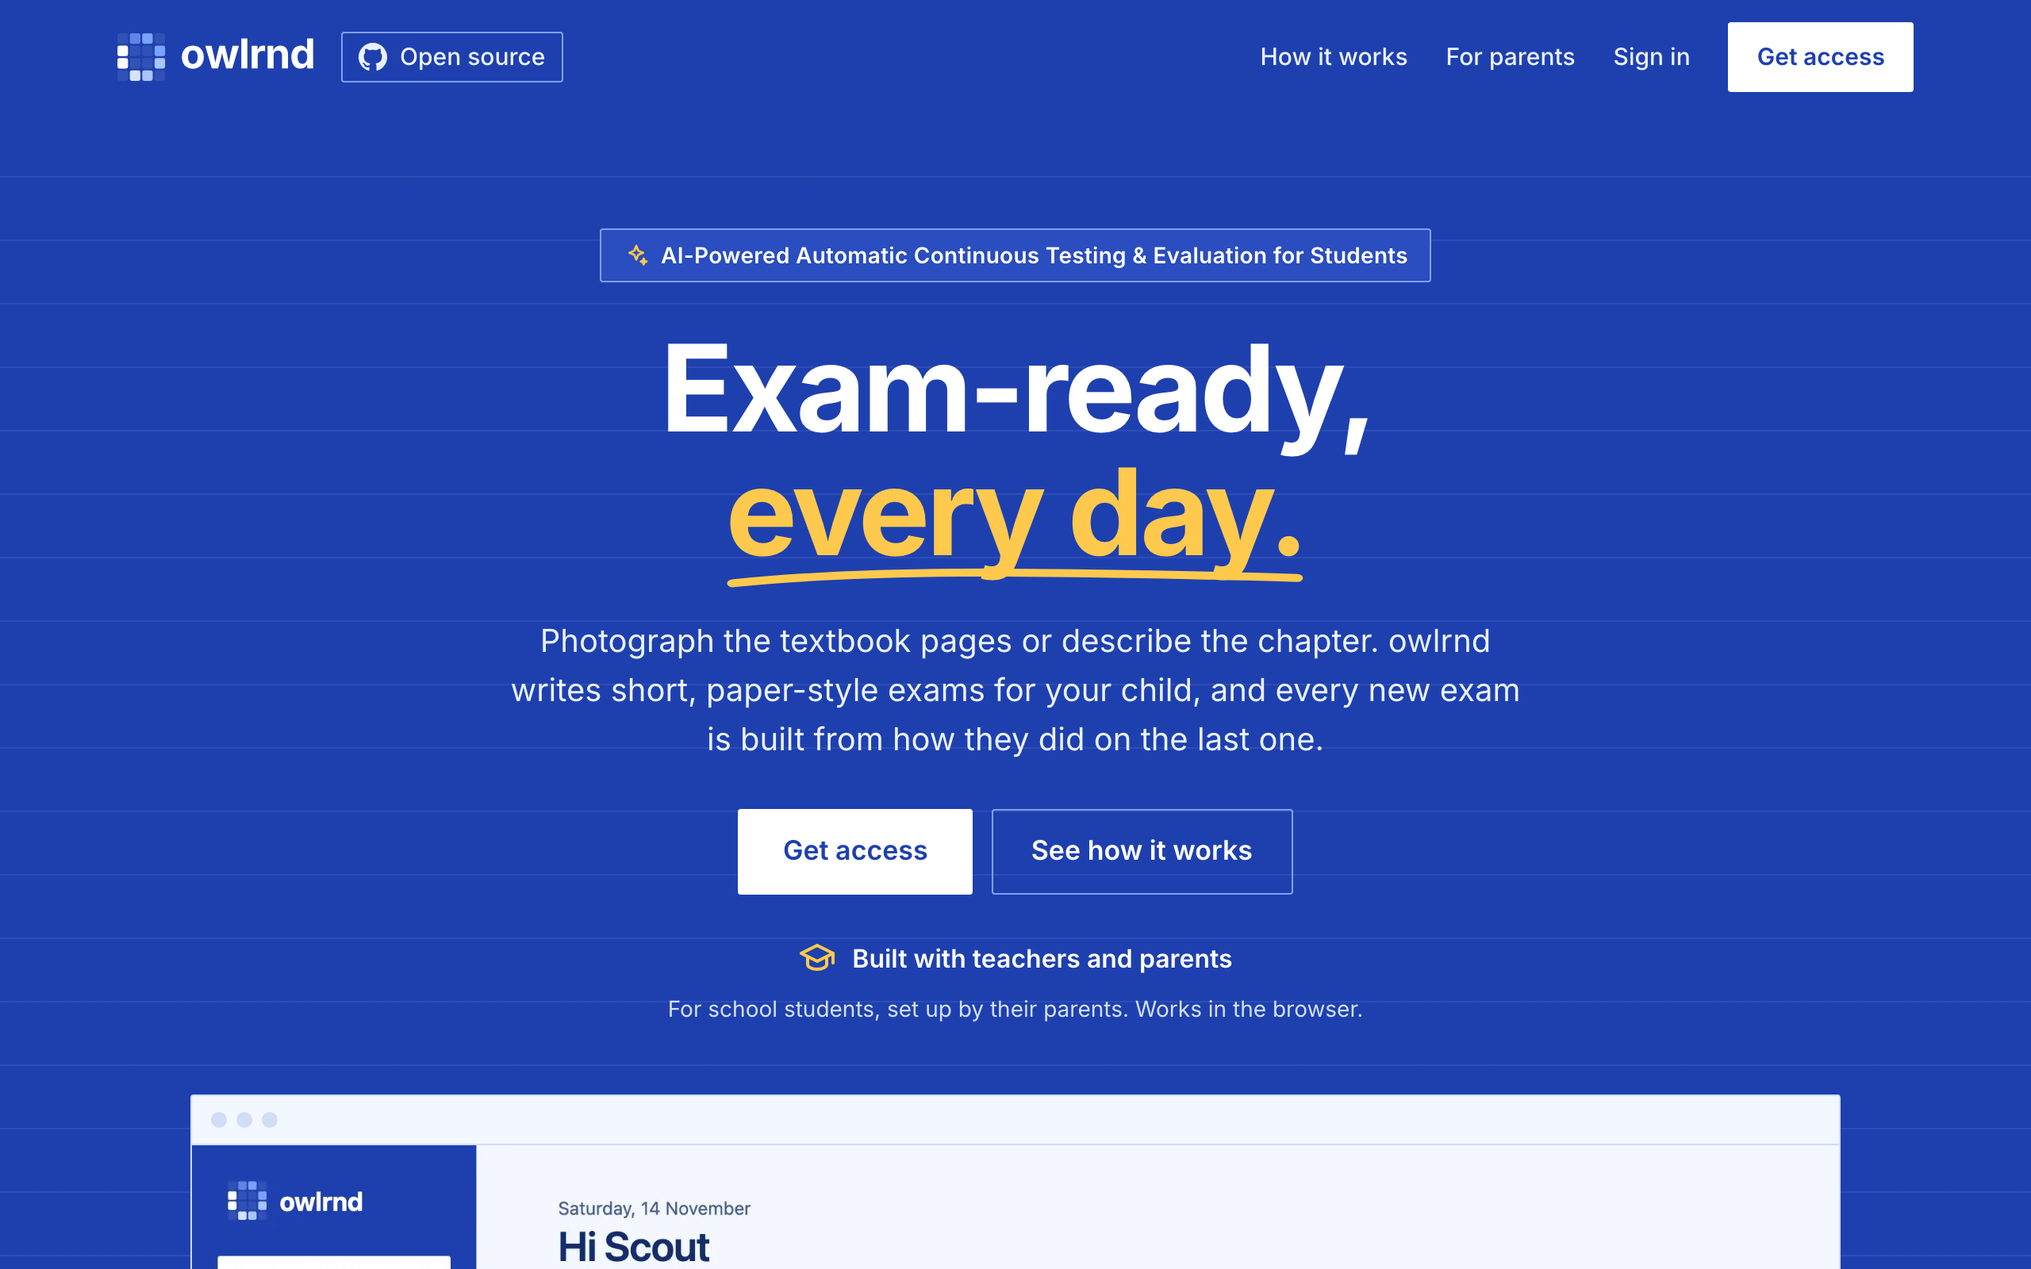
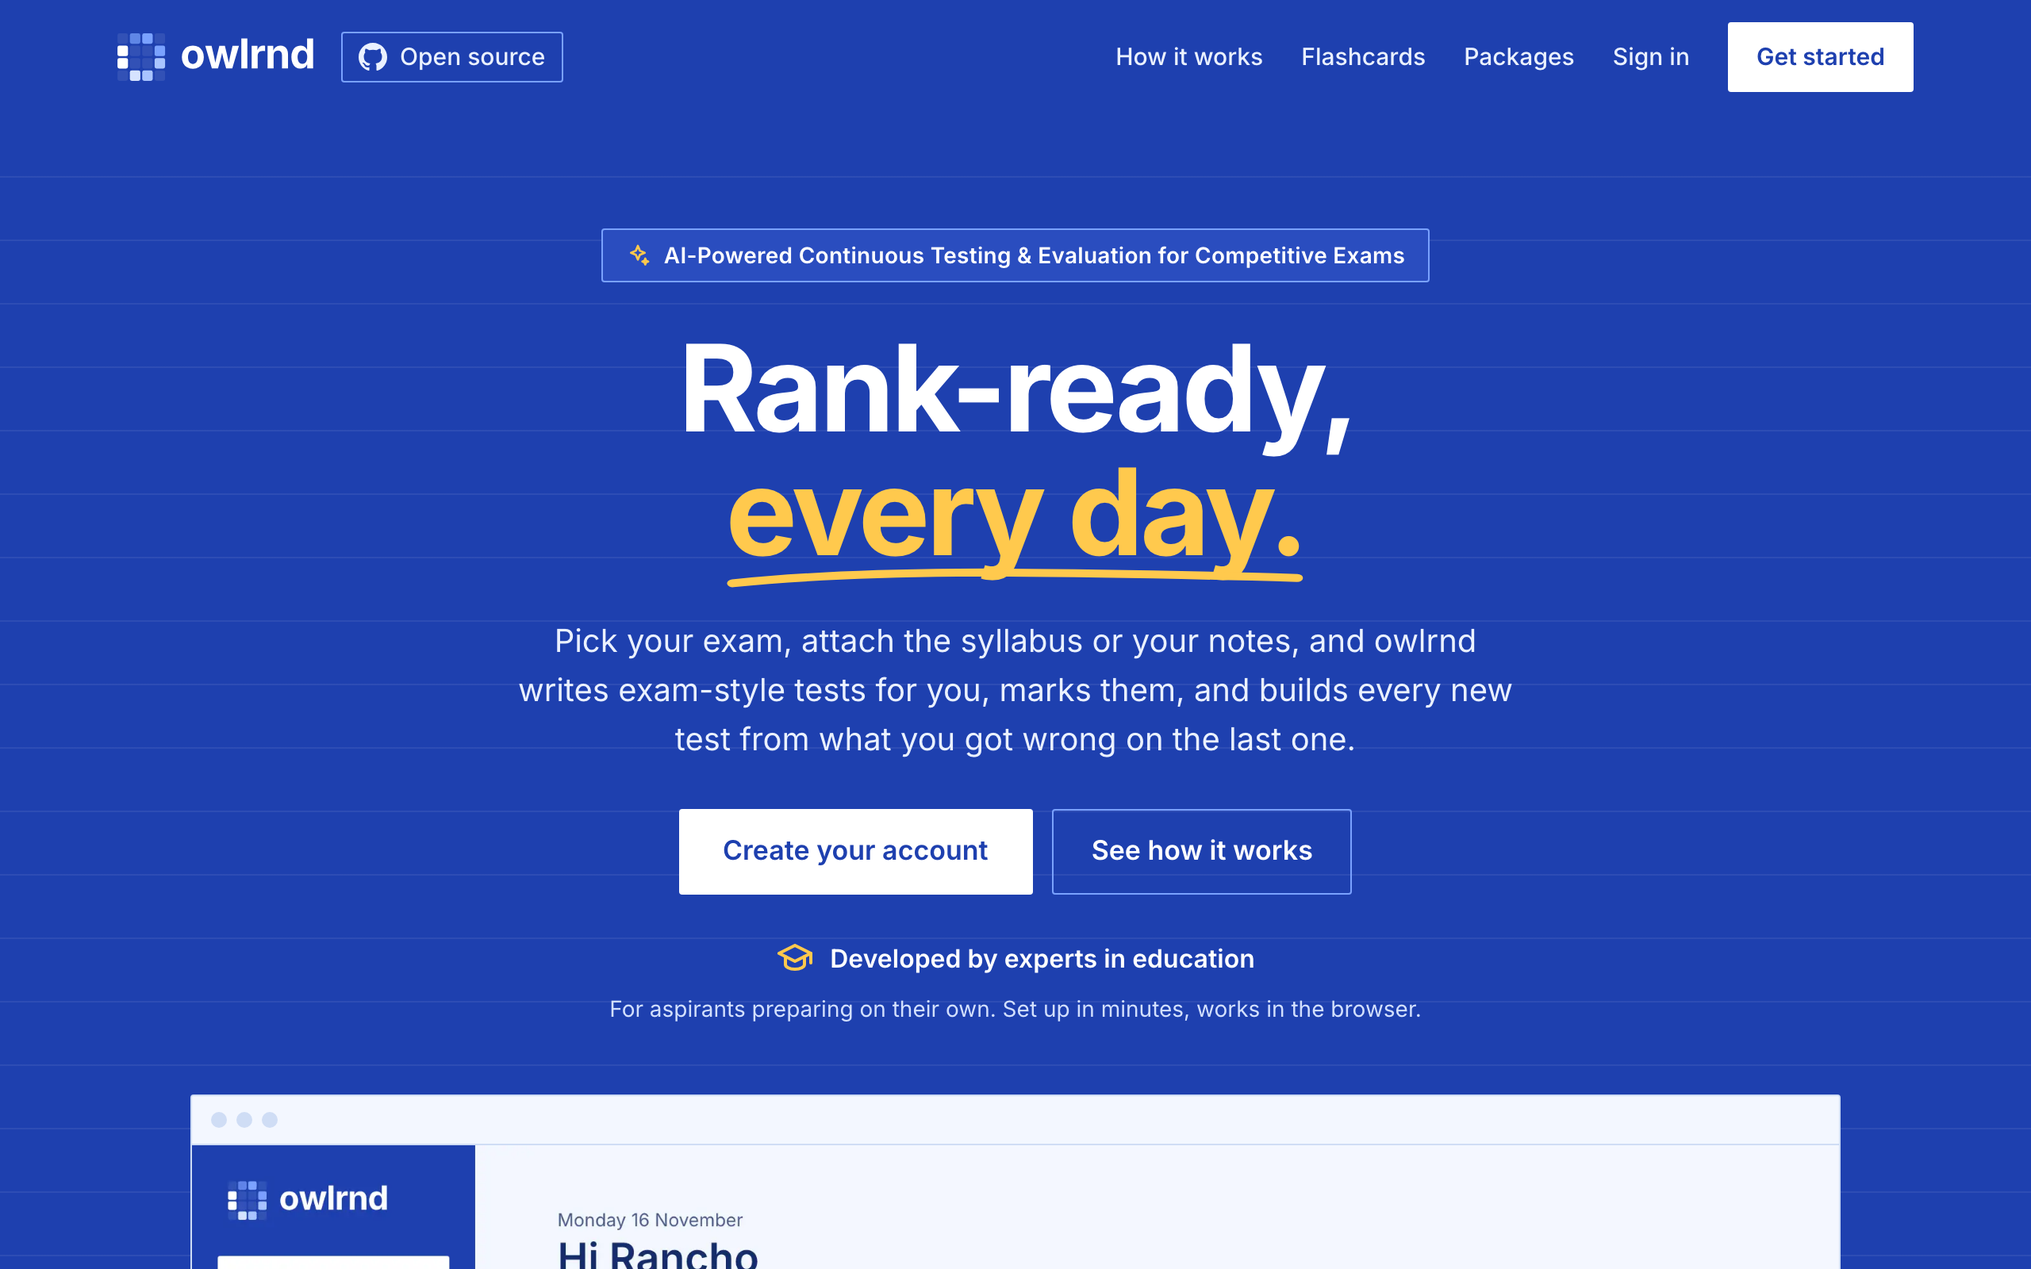
Website and README for 0.3 Flashcards
Landing page: a Flashcards section ("Learn it between tests") with an HD
screenshot of a card, a Flashcards link in the header, and a new HD
dashboard screenshot with track colours and Practise buttons. README:
intro for both kinds of learner, the new screenshots, what each version
added, and a Flashcards section (job, routes, rules). Roadmap items 6 and
19 marked built.

diff --git a/src/components/landing/Landing.tsx b/src/components/landing/Landing.tsx
@@ -6,6 +6,7 @@ import { site } from "@/config/site";
 import { CapIcon, GitHubIcon, SparkleIcon, StarIcon, Swash } from "./icons";
 import chatImg from "./img/chat.png";
 import dashImg from "./img/dash.png";
+import flashcardsImg from "./img/flashcards.png";
 import paperImg from "./img/paper.png";
 import parentImg from "./img/parent.png";
 import { SiteFooter, SiteHeader } from "./SiteChrome";
@@ -19,7 +20,8 @@ import { SiteFooter, SiteHeader } from "./SiteChrome";
 
 // Imported, so each file gets a content-hashed URL (a swapped screenshot shows up at once) and its own size.
 const SHOTS = {
-  dash: { src: dashImg, alt: "A learner's owlrnd dashboard with three suggested JEE practice tests" },
+  dash: { src: dashImg, alt: "A learner's owlrnd dashboard with three suggested JEE practice tests, each with a Practise flashcards button" },
+  flashcards: { src: flashcardsImg, alt: "An owlrnd flashcard showing a question on Ohm's law, its answer and a one-line explanation, with Not yet and Got it buttons" },
   chat: { src: chatImg, alt: "A learner creating a JEE Physics track by chatting with the owlrnd AI" },
   paper: { src: paperImg, alt: "An owlrnd exam paper with numbered multiple-choice questions" },
   parent: { src: parentImg, alt: "The parent's view of two children's practice activity" },
@@ -28,7 +30,7 @@ const SHOTS = {
 const STEPS = [
   ["Choose your exam", "Start from a ready-made package for your exam, or chat with the AI and attach the syllabus, your coaching notes or a past paper."],
   ["Set a track and a goal", "The AI lists the topics and suggests a goal, such as 9 out of 10 in three tests in a row. Change anything before you start."],
-  ["Practise every day", "Short papers of up to 10 questions. Each new test gives more weight to what you got wrong and brings back what you know, so it sticks."],
+  ["Practise every day", "Short papers of up to 10 questions, and flashcards in between. Each new test gives more weight to what you got wrong and brings back what you know, so it sticks."],
 ];
 
 const EXAM_POINTS = [
@@ -38,6 +40,13 @@ const EXAM_POINTS = [
 ];
 
 /** No package is live in 0.2 (owner, 2026-11-15): every card shows "Coming soon" (hand-off, open items). */
+/** 0.3 Flashcards (docs/plan-0.3-flashcards.md). */
+const FLASHCARD_POINTS = [
+  ["Written from your material", "Short cards on your syllabus and notes: definitions, formulas, units and quick one-step problems."],
+  ["Your mistakes come back", "Questions you got wrong in a test return as flashcards, asked a new way, until they stick."],
+  ["Spaced, so you remember", "Cards you know come back less often; the ones you are still learning come back the next day."],
+];
+
 const PACKAGES = [
   ["JEE Main", "Physics, Chemistry, Mathematics"],
   ["NEET UG", "Physics, Chemistry, Biology"],
@@ -58,7 +67,7 @@ const PACKAGE_POINTS = [
 const PARENT_POINTS = [
   ["You set up the tracks", "Photograph the textbook pages or describe the chapter. The AI builds the tracks and goals with you."],
   ["Every sign-in comes to you", "Each time your child signs in, a 6-digit code is sent to your email."],
-  ["See effort and weak spots", "One page for all your children: last exam, what needs work, and how often they practise."],
+  ["See effort and weak spots", "One page for all your children: last exam, what needs work, and how often they practise, with tests and flashcards."],
 ];
 
 /** Star badge shades, lightest to darkest, one per level. */
@@ -80,6 +89,7 @@ export function Landing() {
         <Hero />
         <HowItWorks />
         <TheExam />
+        <Flashcards />
         <Goals />
         <Packages />
         <Motivation />
@@ -232,10 +242,25 @@ function TheExam() {
   );
 }
 
+function Flashcards() {
+  return (
+    <section id="flashcards" className="scroll-mt-4 px-6 py-20">
+      <div className="mx-auto flex max-w-[1180px] flex-col gap-9">
+        <SectionIntro eyebrow="Flashcards" title="Learn it between tests.">
+          A few minutes at a time: read the question, think, show the answer, and say Got it or Not yet. No marks and no
+          effect on your goal, just practice that makes the next test easier.
+        </SectionIntro>
+        <Shot shot={SHOTS.flashcards} />
+        <Points items={FLASHCARD_POINTS} />
+      </div>
+    </section>
+  );
+}
+
 function Goals() {
   const max = Math.max(...GOAL_SCORES);
   return (
-    <section className="px-6 py-20">
+    <section className="border-y border-line bg-white px-6 py-20">
       <div className="mx-auto flex max-w-[1180px] flex-wrap items-center gap-x-16 gap-y-10">
         <div className="flex min-w-0 flex-[1_1_400px] flex-col gap-4">
           <Eyebrow>Goals</Eyebrow>

diff --git a/src/components/landing/SiteChrome.tsx b/src/components/landing/SiteChrome.tsx
@@ -28,6 +28,9 @@ export function SiteHeader({ home = false }: { home?: boolean }) {
           <Link href={`${base}#how`} className={navLink}>
             How it works
           </Link>
+          <Link href={`${base}#flashcards`} className={navLink}>
+            Flashcards
+          </Link>
           <Link href={`${base}#packages`} className={navLink}>
             Packages
           </Link>

diff --git a/docs/09-roadmap.md b/docs/09-roadmap.md
@@ -24,7 +24,7 @@ Small gaps found while building 0.1 (added 2026-11-14). Pick these up first afte
 3. **Ready-made packages.** Board and class packages (CBSE, ICSE) and add-on packs (general knowledge, coaching, AI) that load tracks automatically. Shown as Coming soon in 0.1 (2c).
 4. **Create a track from Claude.** A connector so a parent talking to Claude about their child's studies can ask Claude to create an owlrnd track from that conversation. The parent confirms in owlrnd before it goes live. *Plan for it:* keep track creation as one internal operation that both the chat and an external caller can use.
 5. **Several tracks at once.** From one chat or one connector request, propose one track per chapter or test from a term's syllabus or test timetable; the parent confirms them together.
-6. **Flashcards.** Missed questions and weak topics as flashcards between exams, grouped by track.
+6. **Flashcards.** *Built in 0.3 "Flashcards" (2026-11-16); see item 19 and `plan-0.3-flashcards.md`.* Missed questions and weak topics as flashcards between exams, grouped by track.
 7. **Progress views.** A student progress page and a fuller parent profile with scores over time.
 8. **owlrnd for college students.** *Now part of 0.2 as self-managed learners; see `11-editions.md` and `plan-0.2.md`.*
 9. **A shared, self-improving question bank.** *(Added 2026-11-15, owner.)* Today every question is written for one track and used only there. Instead, keep every good question in one shared bank and reuse it for any student studying the same thing, writing new questions with the AI only when the bank has nothing suitable. This cuts the AI cost per exam (writing papers is most of the bill), makes papers appear instantly, and lets question quality improve with use. **Limit (terms of use, owner 2026-11-16):** exams and flashcards created from material a user uploaded are used only in the account it was uploaded to and are never shown to other users or reused (textbook copyright). So the shared bank may only hold questions not written from uploaded material, unless the terms change and users agree first.
@@ -44,6 +44,6 @@ Small gaps found while building 0.1 (added 2026-11-14). Pick these up first afte
 16. **Exam rules settings.** *(Added 2026-11-15, owner.)* A settings option that controls how a track's exams work. Each ready-made package (item 3) carries its own predefined settings (for example JEE Main: +4 / −1 negative marking, multiple choice and numerical answers), and a learner or parent sets their own for a Build your own track. Settings cover rules such as negative marking, question types, exam size and time, and the goal. *Plan for it:* keep marking and scoring rules in one place that reads per-track settings, with today's 0.1 rules as the defaults.
 17. **Analyse an outside exam paper.** *(Added 2026-11-15, owner.)* A learner or parent uploads a marked exam paper from school, coaching or a mock test (photos or a PDF of the paper with marks, or a marks sheet or teacher's comments) and asks owlrnd to analyse it. The AI reads the questions, the marks and any answers it can see, and maps each question to the track's topics, then compares the result with the learner's owlrnd history on the matching tracks to explain where and why marks were lost. For example: a topic the track never covered, a topic practised but only with easier or different question types, a skill the exams didn't test (multi-step working, long answers, numericals), or a topic the learner was strong on in owlrnd but still lost marks on (a sign the practice wasn't close enough to the real paper). It then proposes changes for the controlling account to confirm: topics to add or re-weight, question types and difficulty to add, and a focus for the next exams. Nothing changes until they confirm (rules §3: adding topics restarts a track that reached its goal). *Plan for it:* reuse the track chat's upload handling (photos, HEIC, PDFs); keep topic names consistent so outside questions can be matched to them; and store answers per question with topic, type and skill (as in item 12) so the comparison has history to work from. Related: upload written answers (item 1) and exam-readiness reporting (item 12). The AI limits still apply (AI §6): it works only from the uploaded paper and the track's topics and material, and the learner's own paper is private to their account.
 18. **Hand a child's account over, or let a child manage their own tracks.** *(Parked from 0.2 by the owner, 2026-11-16; editions §2.5.)* A parent-managed child who grows up (for example 14 and preparing for JEE, or turning 18) keeps their history, tracks and points but takes control: their own email for codes, their own tracks, and the parent's view ends unless the child keeps it on. In 0.2 a parent-created account is always the parent's: codes go to the parent and the parent sets up the tracks. *Plan for it:* learners already have a type and a parent link (M7), so the change is mostly a flow (the child adds and verifies an email) and flipping the type; consent rules (M10) apply to under-18s.
-19. **Flashcards: "Practise" next to Start.** *(Added 2026-11-16, owner; planned as **0.3 "Flashcards"**, see `plan-0.3-flashcards.md` and previews `screens/fc-*`.)* A second button under **Start** on each suggestion and track card, opening a quick flashcard session for that track: no paper, no marks, no effect on the goal. *Idea:* the AI writes cards (term or question on the front, answer and the one-line explanation on the back) from the track's topics and material, weighted the same way as exams (weak and untested topics first; missed exam questions come back as cards). The learner flips and says "Got it" or "Not yet"; "Not yet" cards return sooner (simple spaced repetition). Points could reward finishing a session lightly, without counting towards the goal. *Plan for it:* cards belong to the track like questions (and, per the terms, stay in the account whose material they came from); reuse the exam writer's topic plan and the AI limits; count card generation against the AI allowance. Until it's built, the button isn't shown, so learners don't meet a dead end.
+19. **Flashcards: "Practise" next to Start.** *(Added 2026-11-16, owner; **built in 0.3 "Flashcards"** (F1–F4, 2026-11-16), see `plan-0.3-flashcards.md` and previews `screens/fc-*`.)* A second button under **Start** on each suggestion and track card, opening a quick flashcard session for that track: no paper, no marks, no effect on the goal. *Idea:* the AI writes cards (term or question on the front, answer and the one-line explanation on the back) from the track's topics and material, weighted the same way as exams (weak and untested topics first; missed exam questions come back as cards). The learner flips and says "Got it" or "Not yet"; "Not yet" cards return sooner (simple spaced repetition). Points could reward finishing a session lightly, without counting towards the goal. *Plan for it:* cards belong to the track like questions (and, per the terms, stay in the account whose material they came from); reuse the exam writer's topic plan and the AI limits; count card generation against the AI allowance. Until it's built, the button isn't shown, so learners don't meet a dead end.
 20. **A separate tracker for flashcards.** *(Added 2026-11-16, owner.)* Flashcard practice gets its own progress view and streak, separate from exam streaks and points (0.3 keeps flashcards out of exam streaks). *Plan for it:* 0.3 already stores every session and review (`flashcard_sessions`, `flashcard_reviews`), so the tracker can be built from that history.
 

diff --git a/README.md b/README.md
@@ -1,22 +1,22 @@
 # owlrnd
 
-Short, paper-style practice exams that adapt between exams. A parent sets up practice tracks for each child; the child practises.
+Short, paper-style practice exams that adapt between exams, with flashcards in between. Learners preparing for an exam set up their own practice tracks; parents can set them up for school-age children, who just practise.
 
 - **Brief and rules:** [`CLAUDE.md`](CLAUDE.md), [`docs/`](docs/) (`05-rules.md` is the source of truth), [`screens/`](screens/), [`mockups/`](mockups/)
 - **Build plan and progress:** [`PLAN.md`](PLAN.md)
 
 ## Screenshots
 
-![The owlrnd landing page: "Exam-ready, every day."](docs/images/landing.png)
+![The owlrnd landing page: "Rank-ready, every day."](docs/images/landing.png)
 
 <table>
   <tr>
     <td width="50%"><img src="docs/images/screens/2f_create-the-first-track-agreed-with-a-goal.png" alt="A parent creates a track by chatting with the AI and attaching textbook pages"></td>
-    <td width="50%"><img src="docs/images/screens/3c_dashboard-today.png" alt="The student's dashboard with three suggested practice exams and a 7-day chart"></td>
+    <td width="50%"><img src="docs/images/screens/3c_dashboard-today.png" alt="A learner's dashboard with three suggested practice exams, each with Start and Practise flashcards, and a 7-day chart"></td>
   </tr>
   <tr>
     <td><b>1. The parent sets up a track.</b> Describe the chapter or test, attach photos of the textbook pages, and agree the topics and a goal with the AI.</td>
-    <td><b>2. The child sees what to do today.</b> Three suggested exams, and a record of practice over the week.</td>
+    <td><b>2. The learner sees what to do today.</b> Three suggested exams, flashcards to practise for each track, and a record of practice over the week.</td>
   </tr>
   <tr>
     <td><img src="docs/images/screens/4-1b_exam-paper.png" alt="An exam paper with numbered multiple-choice questions in a serif typeface"></td>
@@ -34,13 +34,23 @@ Short, paper-style practice exams that adapt between exams. A parent sets up pra
     <td><b>5. Every miss is explained.</b> The marked paper shows the right answer and a one-line reason.</td>
     <td><b>6. The parent sees effort and weak spots.</b> One page for all their children.</td>
   </tr>
+  <tr>
+    <td><img src="docs/images/screens/fc-3_flashcard.png" alt="A flashcard on Ohm's law with its answer, a one-line explanation, and Not yet and Got it buttons"></td>
+    <td></td>
+  </tr>
+  <tr>
+    <td><b>7. Flashcards between exams (0.3).</b> Short cards from the track's material and missed questions. Say Got it or Not yet; cards come back on a spaced schedule. No marks, no effect on the goal.</td>
+    <td></td>
+  </tr>
 </table>
 
-These are the design screens (sample family: Atticus Finch, Scout and Jem). All 41 screens are in [`screens/`](screens/), listed with what each one does in [`docs/04-screens.md`](docs/04-screens.md).
+Most are the design screens (sample family: Atticus Finch, Scout and Jem); 2 and 7 are taken from the app. All 41 screens are in [`screens/`](screens/), listed with what each one does in [`docs/04-screens.md`](docs/04-screens.md).
 
 ## What's coming
 
-owlrnd 0.1 covers the core loop: a parent sets up tracks, the child practises short adaptive exams, and both see progress. Here's what's planned next, roughly in order. The full roadmap is in [`docs/09-roadmap.md`](docs/09-roadmap.md).
+**Released so far:** 0.1, the core loop (a parent sets up tracks, the child practises short adaptive exams, both see progress); 0.2, two kinds of account (learners preparing on their own, with a parent's consent from 13 to 17, and parent-managed children), a demo AI allowance per account and goals that need every topic strong; 0.3 "Flashcards" ([`docs/plan-0.3-flashcards.md`](docs/plan-0.3-flashcards.md)).
+
+Here's what's planned next, roughly in order. The full roadmap is in [`docs/09-roadmap.md`](docs/09-roadmap.md).
 
 **Soon after the first release**
 
@@ -50,14 +60,13 @@ owlrnd 0.1 covers the core loop: a parent sets up tracks, the child practises sh
 
 **Next versions**
 
-- Flashcards
-- Written answers on paper (0.15)
+- A separate tracker for flashcard practice
+- Written answers on paper
 - Camera capture (0.2)
 - Ready-made packages (CBSE, ICSE)
 - A whole term at once
 - Create a track from Claude
 - Progress views
-- owlrnd for college students
 
 Have an idea or want to help build one of these? Open an issue or a pull request.
 
@@ -100,6 +109,12 @@ src/components/       app shell, sidebar, profile menu, …
 src/app/              routes
 tests/e2e/            Playwright
 ```
+
+## Flashcards (0.3)
+
+- **Writing cards:** the background job `write_flashcards` (`src/server/flashcards.ts`, AI in `src/server/ai/writeFlashcards.ts`) writes a starter deck when a track is created or gets new topics (about 6 cards per topic, up to 60), up to 3 cards from missed questions after each marked exam, and top-ups of 10. A deck stops at 200 cards. Exams and cards rarely repeat each other's wording.
+- **Practising:** `/practise/[trackId]` (focus mode, no sidebar; Space, then 1 / 2) and the deck page `/tracks/[trackId]/flashcards`. Practise buttons with due counts are on the dashboard and on Your tracks.
+- **Rules:** Leitner boxes (due again after 1, 2, 4, 8 or 16 days), 5 points per finished session of 8+ cards (at most 2 a day per track), no effect on scores, goals or streaks. All in `rules.flashcards` (`src/config/rules.ts`) and `src/domain/flashcards.ts`; rules §8 and §9a.
 
 ## Accounts (M1)
 
